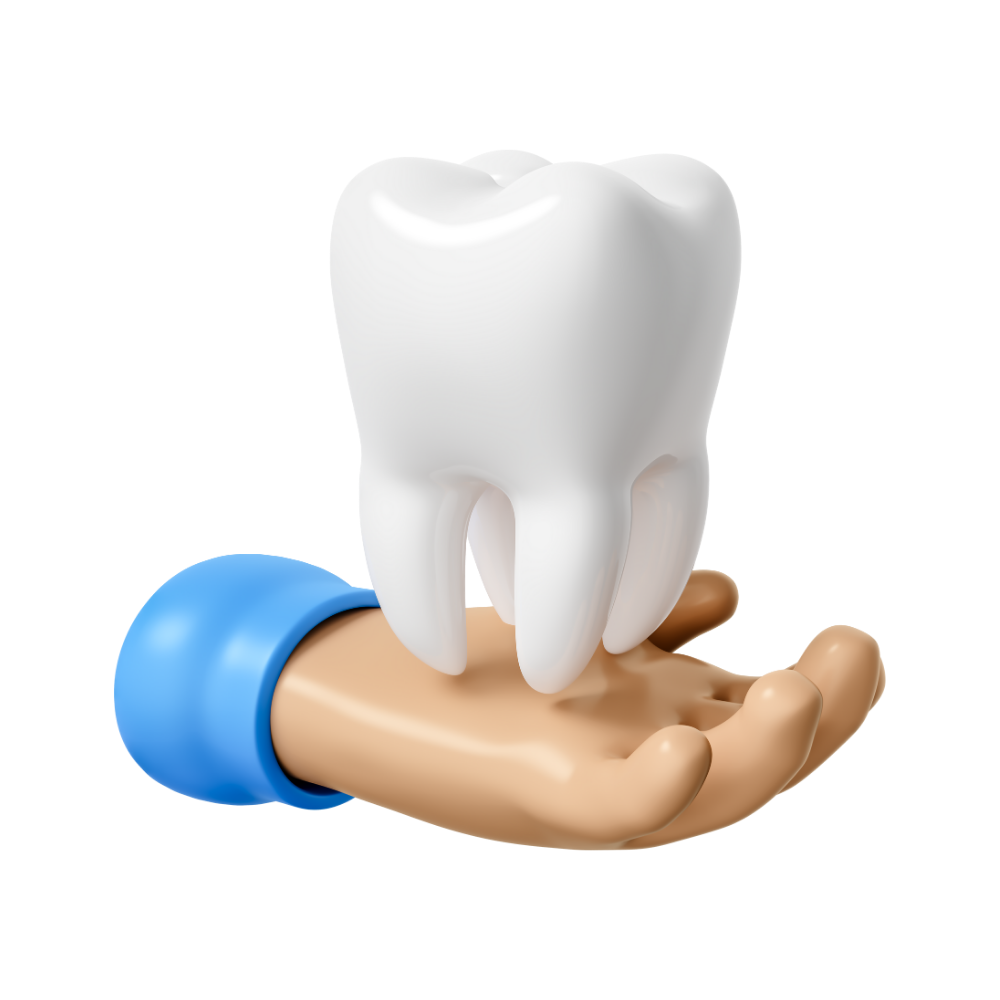
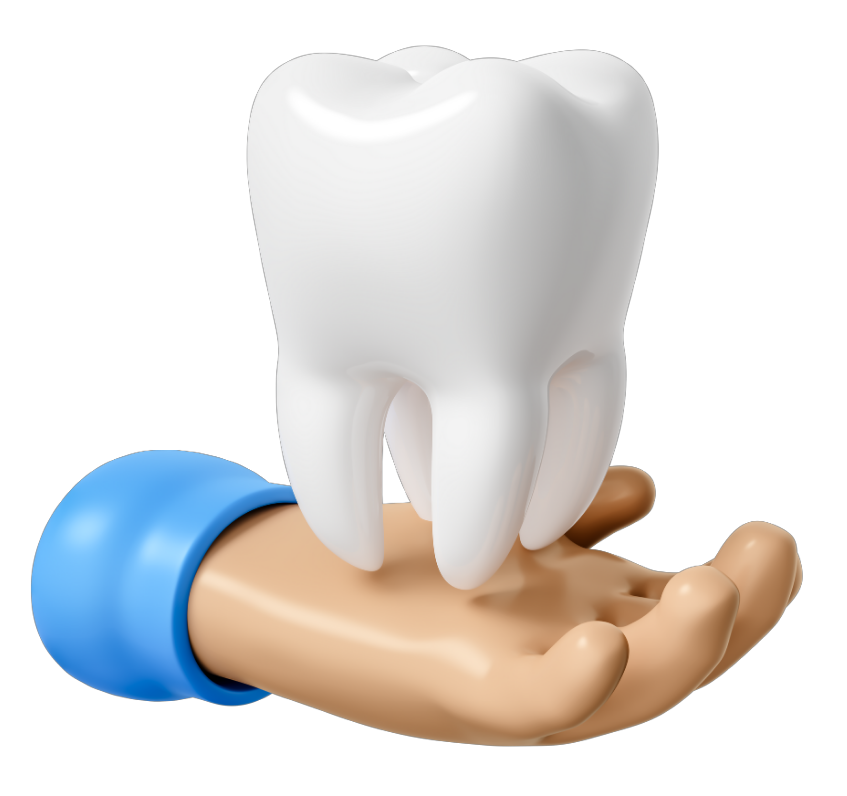
changes in landingPage

diff --git a/clinicss.css b/clinicss.css
@@ -9,39 +9,45 @@
 }
 
 section{
-    padding-top: 150px;
     height: 100vh;
-    margin-left: 30px;
+    padding: 5px 0px 0px 80px;
+}
+
+header{
+    margin-bottom: 90px;
 }
 
 nav{
-    background-color: white;
+    background: rgba(255,255,255,0.7);
+    -webkit-backdrop-filter: blur(6px);
+    backdrop-filter: blur(6px);
+    border: 1px solid rgba(255,255,255,0.35);
     display: flex;
     justify-content: space-between;
     position: fixed;
     top: 0;
     width: 100%;
     z-index: 1;
-    padding: 30px;
-    border-bottom: 1px solid grey;
+    padding: 10px 100px 0px 80px;
 }
 .nav-container{
     display: flex;
-    gap: 15px;
+    gap: 30px;
     align-items: center;
 }
 
 .nav-container a{
+    font-size: 1rem;
     text-decoration: none;
     color: black;
 }
 
 nav a:hover{
-    text-decoration: underline;
+    transform: scale(1.1);
 }
 
 nav img{
-    width: 200px;
+    width: 60px;
 }
 
 .container{
@@ -49,26 +55,32 @@ nav img{
     flex-direction: column;
 }
 
+.pop-container{
+    display: flex;
+}
 #hero{
+    height: 80vh;
+    border-radius: 30px;
+    margin: 50px;
+    background-color: #BCEAFA;
     display: flex;
 }
 
 #hero h1{
-    margin: 150px 30px 30px 30px;
+    margin: 150px 0px 30px 0px;
     font-size: 3.125rem;
-    font-weight: 300;
+    font-weight: bold;
 }
 
 #hero img{
-    margin-top: 90px;
     position: absolute;
     margin-right: auto;
-    width: 500px;
+    width: 600px;
 }
 
 
 #hero-button{
-    margin: 60px 60px 60px 120px;
+    margin: 60px 60px 60px 100px;
 }
 
 .button-container{
@@ -76,25 +88,30 @@ nav img{
     justify-content: space-evenly;
     align-items: center;
     gap: 30px;
-    background-color: #E0E5EC;
+    background-color: #329F94;
     width: 500px;
     height: 90px;
     border-radius: 10px;
 }
 
+
 .button-container span{
-    background-color: #E0E5EC;
+    background-color: #329F94;
+    color: white;
 }
 
 .button{
-    border-color: #334680;
-    color: white;
-    background-color: #334680;
+    border-color: #EAEAEA;
+    background-color: #EAEAEA;
     border-radius: 10px;
     height: 55px;
     width: 250px;
     font-weight: 300px;
     font-size: 1rem;
+}
+
+#offer{
+    height: 50vh;
 }
 
 .offer-container{
@@ -115,14 +132,17 @@ nav img{
 
 .heading{
     display: inline-block;
-    border-bottom: 5px solid #6247B3;
-    margin: 50px 0px 0px 30px;
+    border-bottom: 5px solid #329F94;
+    margin: 100px 0px 0px 0px;
+}
+
+#about article,aside{
+    margin-top: 80px;
 }
 
 #about article{
     text-align: justify;
     width: 640px;
-    margin-left: 30px;
 }
 
 #about article>div{
@@ -138,7 +158,7 @@ nav img{
 }
 
 .service-container{
-    margin: 30px 60px 0px 70px;
+    margin: 80px 60px 0px 0px;
     display: grid;
     grid-template-columns: auto auto auto;
     column-gap: 30px;
@@ -154,6 +174,7 @@ nav img{
 }
 
 .info-container{
+    padding-inline: 15px;
     margin: 60px 0px 50px 0px;
     display: inline-flex;
     justify-content: space-between;
@@ -188,7 +209,7 @@ nav img{
 
 .info-loc iframe{
     display: inline-block;
-    width: 700px;
+    width: 650px;
     height: 420px;
 }
 
@@ -198,37 +219,18 @@ nav img{
 }
 
 .divider{
+    margin-top: 50px;
     display: flex;
-    margin-left: 30px;
 }
 
-
-.sign-container{
-    position: relative;
-    display: flex;
-    justify-content: center;
-    flex-direction: column;
-    background-color: #F6F7F6;
-    width: 1000px;
-    height: 400px;
-    margin: 30px auto 10px;
-    padding: 50px;
-    border-radius: 10px;
+#info-button2{
+    background-color: #329F94;
+    border: 1px solid #329F94;
+    color: white;
 }
 
-#signup{
-    position: relative;
+#info-button3{
+    border: 4px solid #329F94;
+    color: #329F94;
+    background-color: white;
 }
-#signup img{
-    position: absolute;
-    bottom: -150px;
-    right: -200px;
-    width: 600px;
-
-}
-
-/*button in sign in page*/
-#sign-button {
-    margin: 100px 0px 0px 20px;
-}
-

diff --git a/index.html b/index.html
@@ -10,7 +10,7 @@
     <header>
         <nav>
             <div>
-                <a href="#hero"><img src="/Logo/clinic_logo.png" alt="clinic-logo"></a>
+                <a href="#"><img src="/Logo/clinic_logo.png" alt="clinic-logo"></a>
             </div>
 
             <div class="nav-container">
@@ -24,24 +24,26 @@
 
 
     <section id="hero">
-        <div class="container">
-            <div>
-                <h1>Empowering Healthy Smiles, <br> One Treatment at a Time.</h1>
+        <div class="pop-container">
+            <div class="container">
+                <div>
+                    <h1>Empowering Healthy Smiles, <br> One Treatment at a Time.</h1>
+                </div>
+        
+                <div class="button-container" id="hero-button">
+                    <span>+63 (920) 954 0792</span>
+                    <!--To whatever page it is-->
+                    <a href="#signup">
+                        <button class="button">
+                            Make an appointment
+                        </button>
+                    </a> 
+                </div>
             </div>
     
-            <div class="button-container" id="hero-button">
-                <span>+63 (920) 954 0792</span>
-                <!--To whatever page it is-->
-                <a href="#signup">
-                    <button class="button">
-                        Make an appointment
-                    </button>
-                </a> 
+            <div>
+                <img src="/images/hero2.png" alt="hero">
             </div>
-        </div>
-
-        <div>
-            <img src="/images/hero-clinic.png" alt="hero">
         </div>
     </section>
  
@@ -50,6 +52,7 @@
         <div class="heading">
             <h1>Special offers</h1>
         </div>
+
         <div class="offer-container">
             <div>
                 <span>Lorem ipsum dolor sit, amet consectetur adipisicing elit. Odit, delectus!</span>
@@ -223,17 +226,17 @@
                     <div>
                         <img src="/images/time.png" alt="time-logo">
                         <p>
-                            Mon-Fri <br>9:00AM - 4:00PM
+                            Mon-Fri <br>8:00AM - 4:00PM
                         </p>
                     </div>
                 </div>
         
                 <div class="info-button">
-                    <button class="button">
+                    <button class="button" id="info-button2">
                         Contact Now
                     </button>
         
-                    <button class="button">
+                    <button class="button" id="info-button3">
                         How to get there?
                     </button>
                 </div>
@@ -246,35 +249,6 @@
 
     </section>
 
-    <section id="signup">
-        <div class="heading">
-            <h1>
-                Sign Up
-            </h1>
-        </div>
-
-        <div class="sign-container">
-            <h1>
-                Sign up for a consultation to discuss the details
-            </h1>
-
-            <p>Our Dental Secretary will contact you as soon as possible</p>
-
-            <div class="button-container" id="sign-button">
-                <span>+63 (920) 954 0792</span>
-
-                <button class="button">
-                    Sign Up
-                </button>
-            </div>
-            
-            <div>
-                <img src="images/hero2.png" alt="hero2-image">
-            </div>
-        </div>
-        
-
-    </section>
 
 </body>
 </html>
